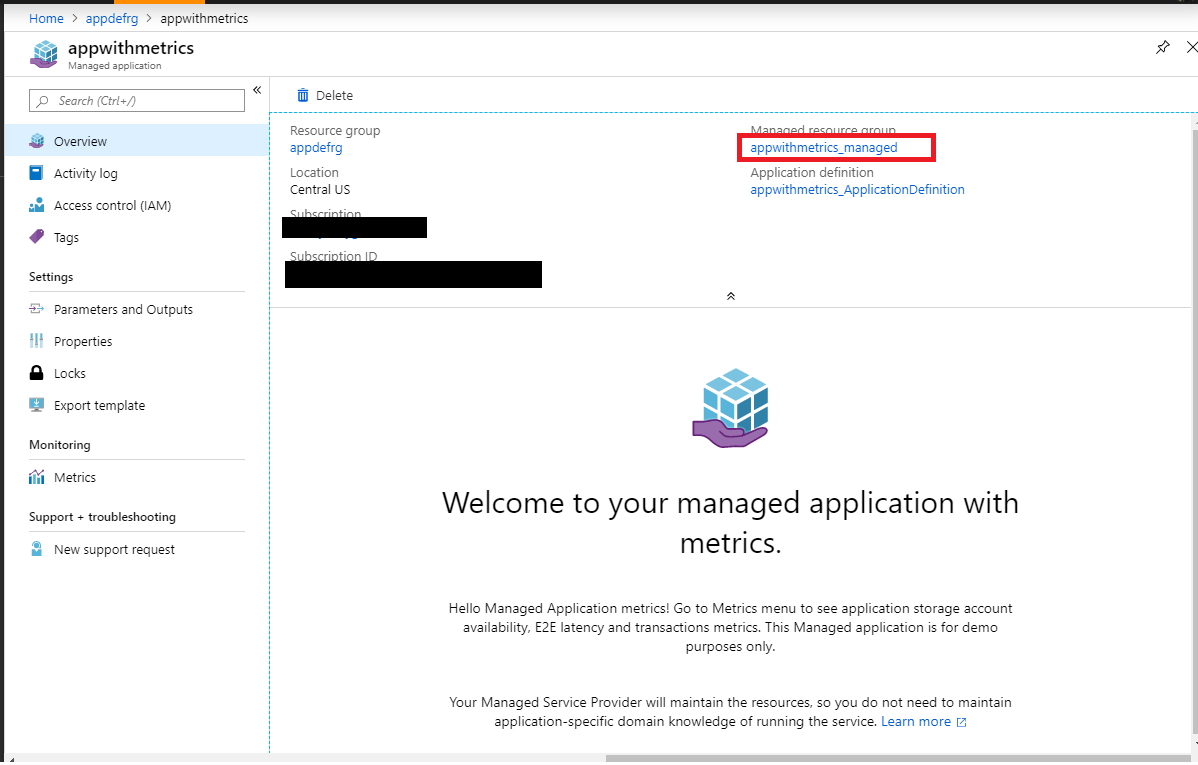
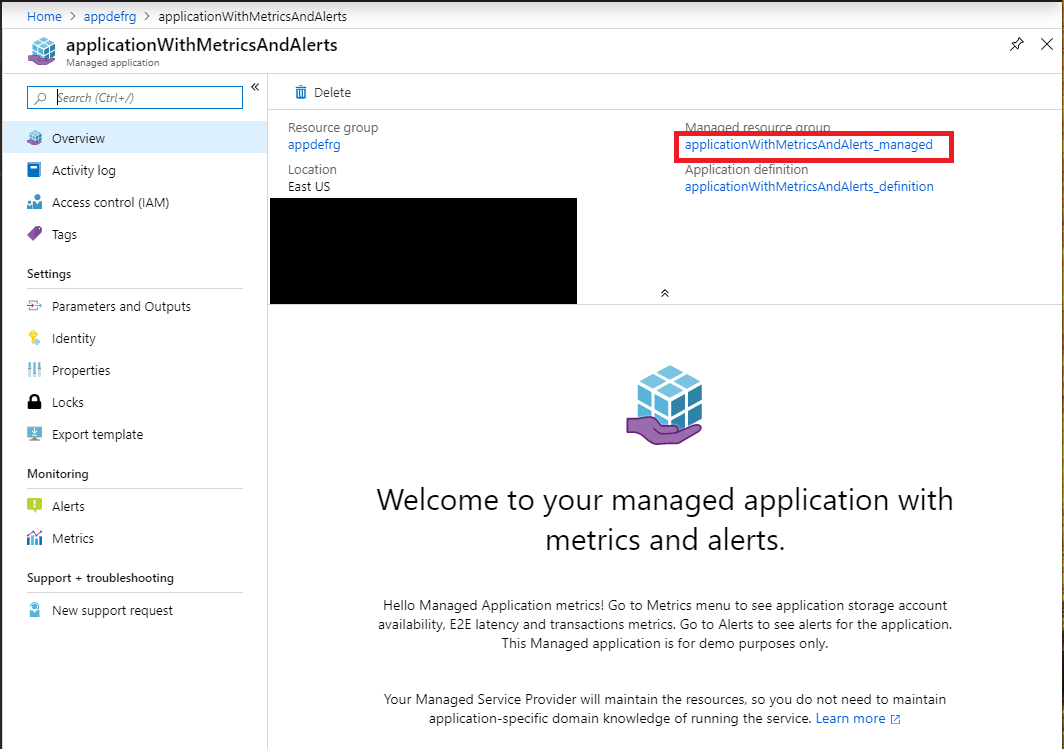
images and readme

diff --git a/101-managed-application-with-metrics-and-alerts/README.md b/101-managed-application-with-metrics-and-alerts/README.md
@@ -1,4 +1,4 @@
-# Deploying your first Managed Application with default view
+# Creating managed application with metrics and alerts
 
 <a href="https://portal.azure.com/#create/Microsoft.Template/uri/https%3A%2F%2Fraw.githubusercontent.com%2Folgaian%2Fazure-quickstart-templates%2F101amawithmetrics%2F101-managed-application-with-metrics-and-alerts%2Fazuredeploy.json" target="_blank">
     <img src="http://azuredeploy.net/deploybutton.png"/>
@@ -7,34 +7,67 @@
     <img src="http://armviz.io/visualizebutton.png"/>
 </a>
 
-This sample template deploys a Service catalog managed application definition that creates a storage account as part of an application. The application definition has a customized default application overview (header and description) and expose storage account metrics (availability, success E2E latency and transactions) as application metrics.
+If this is your first time learning about Azure managed applications, please visit:
++ [**Deploying your first managed application**](https://github.com/Azure/azure-quickstart-templates/tree/master/101-managed-application).
 
-## Overview experience and application metrics
+This sample shows how you can author a Service catalog managed application definition that will allow to deploy managed application with defined metrics and alerts.
+Managed application will contain single storage account as a resource, expose application metrics: storage account metrics (availability, success E2E latency,  transactions), and alerts: metric alert based on storage account availability and activity log alerts based on regenerating storage account keys.
 
-This sample deployment creates the following two resources:
+This sample template combines two steps:
 
-1) A service catalog managed application definition.
-2) A managed application that contains a storage account.
+1. Deploys a Service catalog managed application definition.
+1. Deploys a managed application using deployed application definition.
 
-Once you click on the deployed managed application you will notice that Overview contains header and description of the application.
+In a production environment a typical scenario would deploy the application definition and application instance as separate steps. Usually definition is deployed once and an application many times. In this sample the two steps are combined to make it easy to quickly see the final result of those steps.
+
+Once your deployed this sample template, go to the deployed managed application. Application Overview contains header and description of the application.
 
 ![](images/default-view.png)
 
-If you click managed resource group in managed application Overview, you'll see a storage account created inside that resource group.
+This view is driven by [viewDefinition.json](artifacts/ManagedAppZip/viewDefinition.json) file from application definition package.
+Overview is defined by "kind": "Overview" element, that has values for the header and description shown as a default overview experience.
+To learn more about View definition please visit:
++ [**View definition artifact in Azure Managed Applications**](https://docs.microsoft.com/en-us/azure/managed-applications/concepts-view-definition)
+
+Click managed resource group in managed application Overview.
 
 ![](images/essentials.png)
 
+You'll see a storage account created inside that resource group. Click "Show hidden types" and you'll see that actually resource group contains an action group and two alert rules. These resources are deployed using Azure Resource Manager template [mainTemplate.json](artifacts/ManagedAppZip/mainTemplate.json) from the application definition package. 
+
+![](images/app-mrg.png)
+
+This sample [mainTemplate.json](artifacts/ManagedAppZip/mainTemplate.json) specifies deployment of the action group and alert rules in addition to storage account deployment.
+
+To learn more about Azure Resource Manager templates best practices please visit: 
++ [**Azure Resource Manager Templates - Best Practices Guide**](https://github.com/Azure/azure-quickstart-templates/blob/master/1-CONTRIBUTION-GUIDE/best-practices.md)
+
+To learn more about Azure alerts, please visit:
++ [**Overview of alerts in Microsoft Azure**](https://docs.microsoft.com/en-us/azure/azure-monitor/platform/alerts-overview).
+
+The sample application definition creates application with lock level set to None, so you'll be able to access resources in managed resource group.
+
 ![](images/app-sa.png)
 
-Go back to the deployed application and click Metrics menu item. You'll see 3 storage account metrics exposed as application metrics: Availability, Success E2E latency and Transactions.
+Go to the storage account and try to perform some blob operations to generate some transactions, also go to "Access keys" and regenerate storage account key(s).
 
-![](images/metrics-toc.png)
+![](images/sa-operations.png)
 
-Both Overview and Metrics experiences are driven by [viewDefinition.json](artifacts/ManagedAppZip/viewDefinition.json) file from the deployed application definition package that was used to deploy the application.
+Go back to the application and select Alerts menu. You'll be able to explore Alert rules, so you'll see that this application has two alert rules:
+ + Metrics alert rule: if Availability metric for the storage account is greater than 0.
+ + Activity log alert rule: if storage account key was regenerated. 
 
-Overview is defined by "kind": "Overview" element, that has values for the header and description shown as a default overview experience.
+It may take a moment to propagate, but because you performed some blob operation and regenerated storage account key, you'll see Alerts raised for your application.
 
-Metrics are defined by "kind": "Metrics" element. You can use any metric supported by your application Azure resource to expose it as application metric. You can use different metrics view: bar chart, line chart etc for better visualization. You can drill down into metric that you are interested in and explore more using [Azure Metrics Explorer](https://docs.microsoft.com/en-us/azure/azure-monitor/platform/metrics-getting-started) capabilities.
+![](images/app-alerts.png)
 
+Now click on Metrics menu item. Application is exposing three metrics: Transactions, Availability and Success E2E latency for the application storage account. Because you performed some blob operations with the storage account you'll data is flowing into the metrics graph.
+
+![](images/app-metrics.png)
+
+Metrics view is driven by  by [viewDefinition.json](artifacts/ManagedAppZip/viewDefinition.json) file from application definition package. They are defined by "kind": "Metrics" element. You can use any metric supported by your application Azure resource to expose it as application metric. You can use different metrics view: bar chart, line chart etc for better visualization. 
 To learn more about View definition please visit:
 + [**View definition artifact in Azure Managed Applications**](https://docs.microsoft.com/en-us/azure/managed-applications/concepts-view-definition)
+
+You can drill down into metric that you are interested in and explore more using [**Azure Metrics Explorer**](https://docs.microsoft.com/en-us/azure/azure-monitor/platform/metrics-getting-started) capabilities.
+
